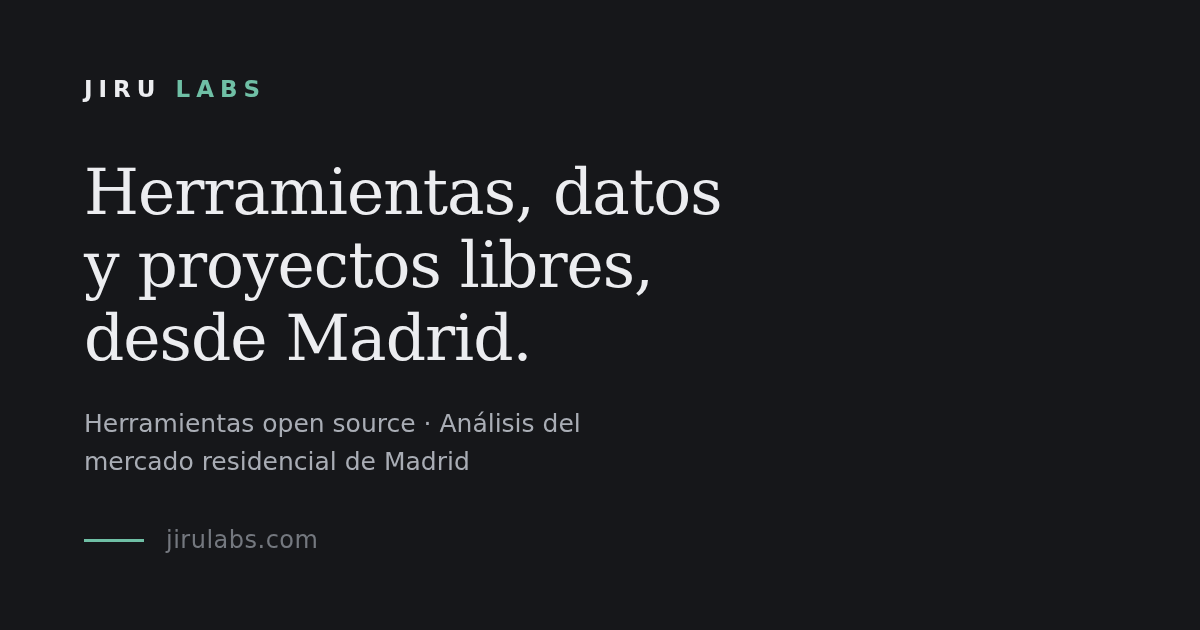
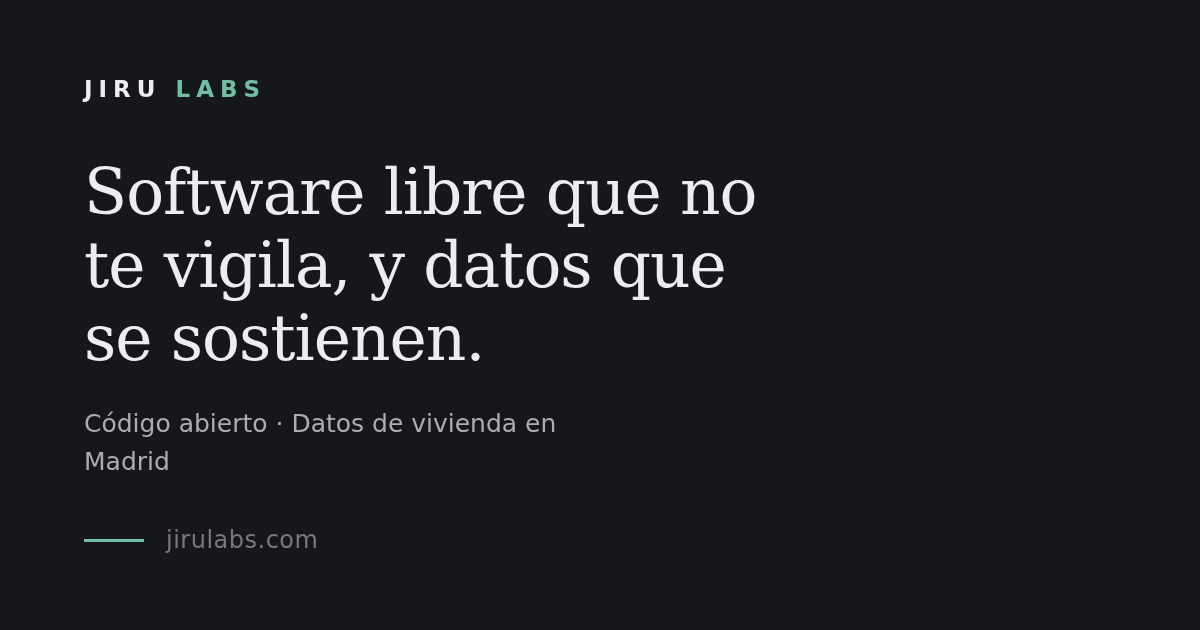
Home copy pass

Changed region(s): [[0.0617, 0.2413, 0.6475, 0.573], [0.0617, 0.6635, 0.4933, 0.6937], [0.0617, 0.7238, 0.4008, 0.754]]

diff --git a/index.html b/index.html
@@ -7,8 +7,8 @@
 <meta name="theme-color" content="#101113" media="(prefers-color-scheme: dark)">
 <meta http-equiv="Content-Security-Policy" content="default-src 'none'; style-src 'unsafe-inline'; img-src 'self' data:; media-src 'self'; base-uri 'none'; form-action 'none'">
 <meta name="referrer" content="strict-origin-when-cross-origin">
-<title>Jiru Labs — Herramientas open source y análisis de datos</title>
-<meta name="description" content="Laboratorio independiente en Madrid. Herramientas open source para quien ejecuta agentes de IA en su propia infraestructura y análisis longitudinal del mercado residencial de Madrid.">
+<title>Jiru Labs — Software libre y análisis de datos, desde Madrid</title>
+<meta name="description" content="Laboratorio independiente en Madrid: software libre sin cuentas ni rastreo, y análisis del mercado residencial de Madrid con cifras que se sostienen.">
 <link rel="canonical" href="https://jirulabs.com/">
 <link rel="alternate" hreflang="es" href="https://jirulabs.com/">
 <link rel="alternate" hreflang="en" href="https://jirulabs.com/en/">
@@ -16,14 +16,14 @@
 <meta property="og:type" content="website">
 <meta property="og:site_name" content="Jiru Labs">
 <meta property="og:locale" content="es_ES">
-<meta property="og:title" content="Jiru Labs — Herramientas open source y análisis de datos">
-<meta property="og:description" content="Laboratorio independiente en Madrid. Herramientas open source para quien ejecuta agentes de IA en su propia infraestructura y análisis longitudinal del mercado residencial de Madrid.">
+<meta property="og:title" content="Jiru Labs — Software libre y análisis de datos, desde Madrid">
+<meta property="og:description" content="Laboratorio independiente en Madrid: software libre sin cuentas ni rastreo, y análisis del mercado residencial de Madrid con cifras que se sostienen.">
 <meta property="og:url" content="https://jirulabs.com/">
 <meta property="og:image" content="https://jirulabs.com/og-es.png">
 <meta property="og:image:type" content="image/png">
 <meta property="og:image:width" content="1200">
 <meta property="og:image:height" content="630">
-<meta property="og:image:alt" content="Herramientas, datos y proyectos libres, desde Madrid.">
+<meta property="og:image:alt" content="Software libre que no te vigila, y datos que se sostienen.">
 <meta name="twitter:card" content="summary_large_image">
 <meta name="twitter:image" content="https://jirulabs.com/og-es.png">
 <meta name="robots" content="index, follow, max-snippet:-1, max-image-preview:large">
@@ -126,7 +126,7 @@
     color:var(--ink-faint); border-left:2px solid var(--rule); padding-left:.8rem;
   }
   .cardlinks {
-    margin-top:.95rem; display:flex; flex-wrap:wrap; gap:1.1rem;
+    margin-top:.7rem; display:flex; flex-wrap:wrap; gap:.1rem 1.1rem;
     font:500 .85rem/1 ui-sans-serif,-apple-system,"Segoe UI",system-ui,sans-serif;
   }
   .cardlinks a { color:var(--accent); text-decoration:none; border-bottom:1px solid transparent; padding:.45rem 0 .2rem; }
@@ -232,42 +232,42 @@
         <a class="lang" href="/en/" hreflang="en">English</a>
       </span>
     </div>
-    <h1>Herramientas, datos y proyectos libres, desde Madrid.</h1>
-    <p class="lede">Hacemos herramientas open source para quien ejecuta agentes de IA en su propia infraestructura y análisis longitudinal de datos de mercado. Dos líneas, un mismo criterio: sin cuentas, sin rastreo, y ninguna cifra que no se sostenga.</p>
+    <h1>Software libre que no te vigila, y datos que se sostienen.</h1>
+    <p class="lede">Somos un laboratorio independiente en Madrid. Hacemos herramientas de código abierto que funcionan sin cuenta, sin rastreo y sin un servidor nuestro de por medio, y seguimos el mercado residencial de Madrid anuncio a anuncio.</p>
     <nav class="jump" aria-label="En esta página"><a href="#open-source">Proyectos</a> <a href="#principles">Principios</a> <a href="#data">Datos</a> <a href="#contact">Contacto</a></nav>
   </header>
 
   <hr class="rule">
 
   <section id="open-source">
-    <h2>Open source</h2>
+    <h2>Proyectos</h2>
     <div class="projects">
 
-      <div class="card">
-        <div class="card-top">
-          <h3>llm-usage-overlay</h3>
-          <span class="meta">Rust · Tauri 2 · MIT · Windows</span>
-        </div>
-        <p>Cuánta IA estás usando, sin darle tus datos a nadie más. Una ventanita siempre visible en Windows con tus límites y tu gasto: Claude Pro/Max, ChatGPT Plus/Pro (límites de Codex), OpenCode Go/Zen, y el gasto de las API de Anthropic y OpenAI con una clave de administrador. Cada barra proyecta adónde llegarás a este ritmo, y avisa al 80 y al 95&nbsp;%. Inicias sesión en un perfil de navegador privado de la propia app: nunca lee las cookies de tu navegador ni se hace pasar por los clientes oficiales. Sin servidor, sin telemetría.</p>
-        <p class="warn">El instalador no está firmado: Windows SmartScreen avisará la primera vez (Más información → Ejecutar de todas formas). Cada versión se compila en GitHub Actions desde el código etiquetado; compruébala con SHA256SUMS.txt o la atestación.</p>
-        <div class="cardlinks"><a href="https://github.com/jiru-labs/llm-usage-overlay/releases/latest">Descargar para Windows</a><a href="https://github.com/jiru-labs/llm-usage-overlay">Código</a></div>
-        <div class="tags"><span class="tag">llm</span><span class="tag">usage-limits</span><span class="tag">privacy</span><span class="tag">tauri</span><span class="tag">windows</span></div>
-      </div>
       <div class="card">
         <div class="card-top">
           <h3>proofkey</h3>
           <span class="meta">TypeScript · MIT</span>
         </div>
-        <p>Asistente de escritura para Chrome al estilo Grammarly, con tu propia clave de API o, sin clave, con un modelo en tu propio ordenador: el integrado de Chrome o uno que ProofKey ejecuta dentro del navegador. Sin backend, sin cuenta, sin telemetría. Probado con Gemini, xAI, OpenRouter, OpenCode Go y un servidor llama.cpp local.</p>
+        <p>Corrección y reescritura al estilo Grammarly en cualquier web, desde Chrome. Usa tu propia clave de API o, sin clave, un modelo en tu ordenador: el que trae Chrome o uno que ProofKey ejecuta dentro del navegador. Sin backend, sin cuenta, sin telemetría. Probado con Gemini, xAI, OpenRouter, OpenCode Go y un servidor llama.cpp local.</p>
         <div class="cardlinks"><a href="/proofkey/">Más sobre ProofKey</a><a href="https://chromewebstore.google.com/detail/loibjoemoahkajjnfioajcibcamhdafc">Instalar desde Chrome Web Store</a><a href="https://github.com/jiru-labs/proofkey">Código</a></div>
         <div class="tags"><span class="tag">chrome-extension</span><span class="tag">byok</span><span class="tag">llm</span><span class="tag">privacy</span><span class="tag">manifest-v3</span></div>
+      </div>
+      <div class="card">
+        <div class="card-top">
+          <h3>llm-usage-overlay</h3>
+          <span class="meta">Rust · Tauri 2 · MIT · Windows</span>
+        </div>
+        <p>Cuánta IA llevas gastada, sin darle tus datos a nadie. Una ventanita siempre visible en Windows con tus límites de Claude Pro/Max, ChatGPT Plus/Pro (Codex) y OpenCode Go/Zen, y el gasto de las API de Anthropic y OpenAI (con clave de administrador). Proyecta adónde llegarás a este ritmo y avisa al 80 y al 95&nbsp;%. Inicias sesión en un perfil de navegador propio de la app: nunca lee tus cookies ni se hace pasar por los clientes oficiales. Sin servidor, sin telemetría.</p>
+        <p class="warn">El instalador no está firmado, así que la primera vez avisa Windows SmartScreen (Más información → Ejecutar de todas formas). Cada versión se compila en GitHub Actions desde el código etiquetado: puedes comprobarla con SHA256SUMS.txt o con la atestación.</p>
+        <div class="cardlinks"><a href="https://github.com/jiru-labs/llm-usage-overlay/releases/latest">Descargar para Windows</a><a href="https://github.com/jiru-labs/llm-usage-overlay">Código</a></div>
+        <div class="tags"><span class="tag">llm</span><span class="tag">usage-limits</span><span class="tag">privacy</span><span class="tag">tauri</span><span class="tag">windows</span></div>
       </div>
       <div class="card">
         <div class="card-top">
           <h3>trazos</h3>
           <span class="meta">Python · MIT</span>
         </div>
-        <p>Un archivo para toda la vida de los dibujos de alguien. Fotografías sus obras año a año y trazos las convierte en una web tranquila: una línea de tiempo con la edad con la que se hizo cada una, etiquetas, favoritos y su historia. Anónimo y fuera de buscadores y rastreadores de IA por defecto, sin scripts ni rastreadores en la web pública, y con un admin para editarla desde el navegador, sin servidor.</p>
+        <p>Un archivo para toda la vida de los dibujos de alguien. Fotografías sus obras año a año y trazos las convierte en una web tranquila: una línea de tiempo con la edad a la que hizo cada una, etiquetas, favoritos y su historia. Anónima y fuera de buscadores y de rastreadores de IA por defecto, sin scripts ni rastreadores en la parte pública, y con un admin para editarla desde el navegador, sin servidor.</p>
         <div class="cardlinks"><a href="/trazos/es/">Ver la demo</a><a href="https://github.com/jiru-labs/trazos">Código</a></div>
         <div class="tags"><span class="tag">static-site</span><span class="tag">art-archive</span><span class="tag">privacy</span><span class="tag">github-pages</span><span class="tag">no-tracking</span></div>
       </div>
@@ -284,7 +284,7 @@
         </div>
         <p>Audita ficheros de configuración MCP en busca de claves incrustadas, transportes en claro, comandos de arranque tipo <code>curl&nbsp;|&nbsp;sh</code> y permisos demasiado amplios. Lee la configuración, no los servidores. Salida SARIF.</p>
         <pre class="install"><code>pipx install mcp-config-audit</code></pre>
-        <p class="warn">Archivado: el código y el paquete de PyPI siguen publicados, pero ya no recibe cambios. PyPI es el único registro en el que se publica, siempre desde un commit etiquetado de este repositorio. Un paquete con este nombre en npm o en cualquier otro registro no es nuestro.</p>
+        <p class="warn">Ya no recibe cambios, pero el código y el paquete siguen publicados. Solo se publica en PyPI y siempre desde un commit etiquetado: un paquete con este nombre en npm o en cualquier otro registro no es nuestro.</p>
         <div class="cardlinks"><a href="https://github.com/jiru-labs/mcp-config-audit">Código</a><a href="https://pypi.org/project/mcp-config-audit/">PyPI</a></div>
         <div class="tags"><span class="tag">mcp</span><span class="tag">ai-security</span><span class="tag">static-analysis</span><span class="tag">sarif</span><span class="tag">devsecops</span></div>
       </div>
@@ -308,10 +308,10 @@
   <section id="principles">
     <h2>Principios</h2>
     <ul class="plain">
-      <li><b>Privacidad primero</b> — local primero, cero telemetría. Nada sale de tu equipo salvo que tú lo actives.</li>
-      <li><b>Cypherpunk</b> — los secretos se quedan cifrados en tu máquina; la sincronización es autoalojada o cifrada de extremo a extremo, nunca texto en claro en manos de otro.</li>
-      <li><b>Open source</b> — licencias permisivas (MIT y similares) bienvenidas; no exijo copyleft.</li>
-      <li><b>KISS</b> — keep it simple, stupid: una forma sencilla de hacer cada cosa.</li>
+      <li><b>Privacidad primero</b> — todo en local y cero telemetría: nada sale de tu equipo salvo que tú lo actives.</li>
+      <li><b>Cypherpunk</b> — los secretos se quedan cifrados en tu máquina; si algo se sincroniza, es en tu servidor o cifrado de extremo a extremo, nunca en claro en manos de otro.</li>
+      <li><b>Código abierto</b> — licencias permisivas, como MIT; no exigimos copyleft.</li>
+      <li><b>KISS</b> — una forma sencilla de hacer cada cosa, y no tres.</li>
     </ul>
     <p class="soft" style="margin-top:1.1rem; font-size:.96rem">En la práctica: nuestras herramientas nunca se hacen pasar por clientes oficiales ni leen datos de otras aplicaciones (cookies del navegador incluidas), y todo lo no oficial se documenta como no oficial.</p>
   </section>

diff --git a/en/index.html b/en/index.html
@@ -7,8 +7,8 @@
 <meta name="theme-color" content="#101113" media="(prefers-color-scheme: dark)">
 <meta http-equiv="Content-Security-Policy" content="default-src 'none'; style-src 'unsafe-inline'; img-src 'self' data:; media-src 'self'; base-uri 'none'; form-action 'none'">
 <meta name="referrer" content="strict-origin-when-cross-origin">
-<title>Jiru Labs — Open-source tools and data analysis</title>
-<meta name="description" content="Independent lab in Madrid. Open-source tooling for people who run AI agents on their own infrastructure and longitudinal analysis of the Madrid residential market.">
+<title>Jiru Labs — Free software and data analysis, from Madrid</title>
+<meta name="description" content="An independent lab in Madrid: free software with no accounts and no tracking, and analysis of the Madrid housing market with numbers that hold up.">
 <link rel="canonical" href="https://jirulabs.com/en/">
 <link rel="alternate" hreflang="es" href="https://jirulabs.com/">
 <link rel="alternate" hreflang="en" href="https://jirulabs.com/en/">
@@ -16,14 +16,14 @@
 <meta property="og:type" content="website">
 <meta property="og:site_name" content="Jiru Labs">
 <meta property="og:locale" content="en_GB">
-<meta property="og:title" content="Jiru Labs — Open-source tools and data analysis">
-<meta property="og:description" content="Independent lab in Madrid. Open-source tooling for people who run AI agents on their own infrastructure and longitudinal analysis of the Madrid residential market.">
+<meta property="og:title" content="Jiru Labs — Free software and data analysis, from Madrid">
+<meta property="og:description" content="An independent lab in Madrid: free software with no accounts and no tracking, and analysis of the Madrid housing market with numbers that hold up.">
 <meta property="og:url" content="https://jirulabs.com/en/">
 <meta property="og:image" content="https://jirulabs.com/og-en.png">
 <meta property="og:image:type" content="image/png">
 <meta property="og:image:width" content="1200">
 <meta property="og:image:height" content="630">
-<meta property="og:image:alt" content="Tools, data and free projects, from Madrid.">
+<meta property="og:image:alt" content="Free software that doesn’t watch you, and numbers that hold up.">
 <meta name="twitter:card" content="summary_large_image">
 <meta name="twitter:image" content="https://jirulabs.com/og-en.png">
 <meta name="robots" content="index, follow, max-snippet:-1, max-image-preview:large">
@@ -126,7 +126,7 @@
     color:var(--ink-faint); border-left:2px solid var(--rule); padding-left:.8rem;
   }
   .cardlinks {
-    margin-top:.95rem; display:flex; flex-wrap:wrap; gap:1.1rem;
+    margin-top:.7rem; display:flex; flex-wrap:wrap; gap:.1rem 1.1rem;
     font:500 .85rem/1 ui-sans-serif,-apple-system,"Segoe UI",system-ui,sans-serif;
   }
   .cardlinks a { color:var(--accent); text-decoration:none; border-bottom:1px solid transparent; padding:.45rem 0 .2rem; }
@@ -232,42 +232,42 @@
         <a class="lang" href="/" hreflang="es">Español</a>
       </span>
     </div>
-    <h1>Tools, data and free projects, from Madrid.</h1>
-    <p class="lede">We build open-source tooling for people who run AI agents on their own infrastructure, and we do longitudinal analysis of market data. Two lines of work, one standard: no accounts, no tracking, and no number that doesn't hold up.</p>
+    <h1>Free software that doesn’t watch you, and numbers that hold up.</h1>
+    <p class="lede">We are an independent lab in Madrid. We build open-source tools that work with no account, no tracking and no server of ours in between, and we follow the Madrid housing market listing by listing.</p>
     <nav class="jump" aria-label="On this page"><a href="#open-source">Projects</a> <a href="#principles">Principles</a> <a href="#data">Data</a> <a href="#contact">Contact</a></nav>
   </header>
 
   <hr class="rule">
 
   <section id="open-source">
-    <h2>Open source</h2>
+    <h2>Projects</h2>
     <div class="projects">
 
+      <div class="card">
+        <div class="card-top">
+          <h3>proofkey</h3>
+          <span class="meta">TypeScript · MIT</span>
+        </div>
+        <p>Grammarly-style checking and rewriting on any website, from Chrome. It uses your own API key or, with no key, a model on your computer: the one Chrome ships, or one ProofKey runs inside the browser. No backend, no account, no telemetry. Tested with Gemini, xAI, OpenRouter, OpenCode Go and a local llama.cpp server.</p>
+        <div class="cardlinks"><a href="/en/proofkey/">More about ProofKey</a><a href="https://chromewebstore.google.com/detail/loibjoemoahkajjnfioajcibcamhdafc">Install from the Chrome Web Store</a><a href="https://github.com/jiru-labs/proofkey">Source</a></div>
+        <div class="tags"><span class="tag">chrome-extension</span><span class="tag">byok</span><span class="tag">llm</span><span class="tag">privacy</span><span class="tag">manifest-v3</span></div>
+      </div>
       <div class="card">
         <div class="card-top">
           <h3>llm-usage-overlay</h3>
           <span class="meta">Rust · Tauri 2 · MIT · Windows</span>
         </div>
-        <p>Know how much AI you're using without handing your data to anyone else. A small always-on-top Windows overlay with your limits and spend: Claude Pro/Max, ChatGPT Plus/Pro (Codex limits), OpenCode Go/Zen, and Anthropic and OpenAI API spend with an admin key. Each bar projects where you'll be at this pace, and it notifies you at 80 and 95&nbsp;%. You sign in inside the app's own private browser profile: it never reads your browser's cookies or impersonates official clients. No server, no telemetry.</p>
+        <p>Know how much AI you've used without handing your data to anyone. A small always-on-top Windows overlay with your Claude Pro/Max, ChatGPT Plus/Pro (Codex) and OpenCode Go/Zen limits, and your Anthropic and OpenAI API spend (with an admin key). It projects where you'll land at this pace and warns you at 80 and 95&nbsp;%. You sign in inside the app's own browser profile: it never reads your cookies or impersonates official clients. No server, no telemetry.</p>
         <p class="warn">The installer is not code-signed, so Windows SmartScreen warns the first time (More info → Run anyway). Every release is built by GitHub Actions from the tagged source; check it against SHA256SUMS.txt or the build attestation.</p>
         <div class="cardlinks"><a href="https://github.com/jiru-labs/llm-usage-overlay/releases/latest">Download for Windows</a><a href="https://github.com/jiru-labs/llm-usage-overlay">Source</a></div>
         <div class="tags"><span class="tag">llm</span><span class="tag">usage-limits</span><span class="tag">privacy</span><span class="tag">tauri</span><span class="tag">windows</span></div>
       </div>
       <div class="card">
         <div class="card-top">
-          <h3>proofkey</h3>
-          <span class="meta">TypeScript · MIT</span>
-        </div>
-        <p>Grammarly-style writing assistant for Chrome that uses your own API key, or a model on your own computer with no key: Chrome's built-in one, or one ProofKey runs inside the browser. No backend, no account, no telemetry. Tested with Gemini, xAI, OpenRouter, OpenCode Go and a local llama.cpp server.</p>
-        <div class="cardlinks"><a href="/en/proofkey/">More about ProofKey</a><a href="https://chromewebstore.google.com/detail/loibjoemoahkajjnfioajcibcamhdafc">Install from the Chrome Web Store</a><a href="https://github.com/jiru-labs/proofkey">Source</a></div>
-        <div class="tags"><span class="tag">chrome-extension</span><span class="tag">byok</span><span class="tag">llm</span><span class="tag">privacy</span><span class="tag">manifest-v3</span></div>
-      </div>
-      <div class="card">
-        <div class="card-top">
           <h3>trazos</h3>
           <span class="meta">Python · MIT</span>
         </div>
-        <p>A lifelong archive for someone's drawings. Photograph their work year by year and trazos turns it into a quiet website: a timeline with the age each piece was made at, tags, favourites and its story. Anonymous and kept out of search engines and AI crawlers by default, no scripts or trackers on the public site, and an admin to edit it from the browser with no server.</p>
+        <p>A lifelong archive for someone's drawings. Photograph their work year by year and trazos turns it into a quiet website: a timeline with the age each piece was made at, tags, favourites and its story. Anonymous and kept away from search engines and AI crawlers by default, no scripts or trackers on the public side, and an admin to edit it from the browser, with no server.</p>
         <div class="cardlinks"><a href="/trazos/">See the demo</a><a href="https://github.com/jiru-labs/trazos">Source</a></div>
         <div class="tags"><span class="tag">static-site</span><span class="tag">art-archive</span><span class="tag">privacy</span><span class="tag">github-pages</span><span class="tag">no-tracking</span></div>
       </div>
@@ -284,7 +284,7 @@
         </div>
         <p>Audits MCP configuration files for hardcoded keys, plaintext transports, <code>curl&nbsp;|&nbsp;sh</code> launch commands and over-broad permissions. It reads the configuration, not the servers. SARIF output.</p>
         <pre class="install"><code>pipx install mcp-config-audit</code></pre>
-        <p class="warn">Archived: the code and the PyPI package stay published, but it no longer gets changes. PyPI is the only registry it is published to, always from a tagged commit in this repository. A package of this name on npm or any other registry is not ours.</p>
+        <p class="warn">It no longer gets changes, but the code and the package stay published. It is only published to PyPI, always from a tagged commit: a package of this name on npm or any other registry is not ours.</p>
         <div class="cardlinks"><a href="https://github.com/jiru-labs/mcp-config-audit">Source</a><a href="https://pypi.org/project/mcp-config-audit/">PyPI</a></div>
         <div class="tags"><span class="tag">mcp</span><span class="tag">ai-security</span><span class="tag">static-analysis</span><span class="tag">sarif</span><span class="tag">devsecops</span></div>
       </div>
@@ -308,10 +308,10 @@
   <section id="principles">
     <h2>Principles</h2>
     <ul class="plain">
-      <li><b>Privacy-first</b> — local-first, zero telemetry. Nothing phones home unless you opt in.</li>
-      <li><b>Cypherpunk</b> — secrets stay encrypted on your machine; sync is self-hosted or end-to-end encrypted, never someone else's cleartext.</li>
-      <li><b>Open source</b> — permissive licenses (MIT and friends) are welcome; no copyleft required.</li>
-      <li><b>KISS</b> — keep it simple, stupid: one simple way to do each thing.</li>
+      <li><b>Privacy first</b> — local by default and zero telemetry: nothing leaves your machine unless you turn it on.</li>
+      <li><b>Cypherpunk</b> — secrets stay encrypted on your machine; anything that syncs goes to your own server or end-to-end encrypted, never in cleartext to someone else.</li>
+      <li><b>Open source</b> — permissive licences such as MIT; no copyleft required.</li>
+      <li><b>KISS</b> — one simple way to do each thing, not three.</li>
     </ul>
     <p class="soft" style="margin-top:1.1rem; font-size:.96rem">In practice: our tools never impersonate official clients or read other apps' data (browser cookies included), and anything unofficial is documented as unofficial.</p>
   </section>

diff --git a/404.html b/404.html
@@ -107,7 +107,7 @@
     color:var(--ink-faint); border-left:2px solid var(--rule); padding-left:.8rem;
   }
   .cardlinks {
-    margin-top:.95rem; display:flex; flex-wrap:wrap; gap:1.1rem;
+    margin-top:.7rem; display:flex; flex-wrap:wrap; gap:.1rem 1.1rem;
     font:500 .85rem/1 ui-sans-serif,-apple-system,"Segoe UI",system-ui,sans-serif;
   }
   .cardlinks a { color:var(--accent); text-decoration:none; border-bottom:1px solid transparent; padding:.45rem 0 .2rem; }

diff --git a/en/proofkey/index.html b/en/proofkey/index.html
@@ -126,7 +126,7 @@
     color:var(--ink-faint); border-left:2px solid var(--rule); padding-left:.8rem;
   }
   .cardlinks {
-    margin-top:.95rem; display:flex; flex-wrap:wrap; gap:1.1rem;
+    margin-top:.7rem; display:flex; flex-wrap:wrap; gap:.1rem 1.1rem;
     font:500 .85rem/1 ui-sans-serif,-apple-system,"Segoe UI",system-ui,sans-serif;
   }
   .cardlinks a { color:var(--accent); text-decoration:none; border-bottom:1px solid transparent; padding:.45rem 0 .2rem; }

diff --git a/privacidad/index.html b/privacidad/index.html
@@ -109,7 +109,7 @@
     color:var(--ink-faint); border-left:2px solid var(--rule); padding-left:.8rem;
   }
   .cardlinks {
-    margin-top:.95rem; display:flex; flex-wrap:wrap; gap:1.1rem;
+    margin-top:.7rem; display:flex; flex-wrap:wrap; gap:.1rem 1.1rem;
     font:500 .85rem/1 ui-sans-serif,-apple-system,"Segoe UI",system-ui,sans-serif;
   }
   .cardlinks a { color:var(--accent); text-decoration:none; border-bottom:1px solid transparent; padding:.45rem 0 .2rem; }

diff --git a/proofkey/index.html b/proofkey/index.html
@@ -126,7 +126,7 @@
     color:var(--ink-faint); border-left:2px solid var(--rule); padding-left:.8rem;
   }
   .cardlinks {
-    margin-top:.95rem; display:flex; flex-wrap:wrap; gap:1.1rem;
+    margin-top:.7rem; display:flex; flex-wrap:wrap; gap:.1rem 1.1rem;
     font:500 .85rem/1 ui-sans-serif,-apple-system,"Segoe UI",system-ui,sans-serif;
   }
   .cardlinks a { color:var(--accent); text-decoration:none; border-bottom:1px solid transparent; padding:.45rem 0 .2rem; }

diff --git a/proofkey/privacy/index.html b/proofkey/privacy/index.html
@@ -109,7 +109,7 @@
     color:var(--ink-faint); border-left:2px solid var(--rule); padding-left:.8rem;
   }
   .cardlinks {
-    margin-top:.95rem; display:flex; flex-wrap:wrap; gap:1.1rem;
+    margin-top:.7rem; display:flex; flex-wrap:wrap; gap:.1rem 1.1rem;
     font:500 .85rem/1 ui-sans-serif,-apple-system,"Segoe UI",system-ui,sans-serif;
   }
   .cardlinks a { color:var(--accent); text-decoration:none; border-bottom:1px solid transparent; padding:.45rem 0 .2rem; }
